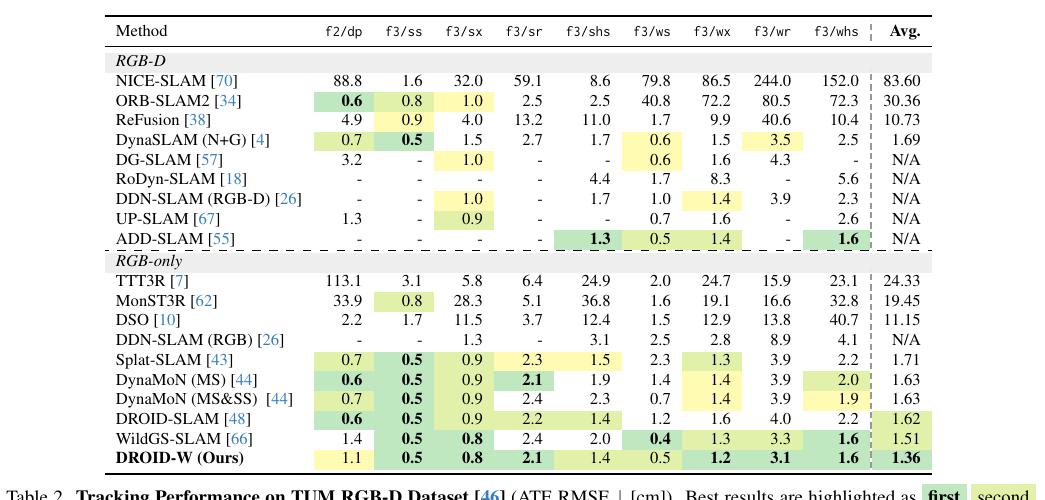
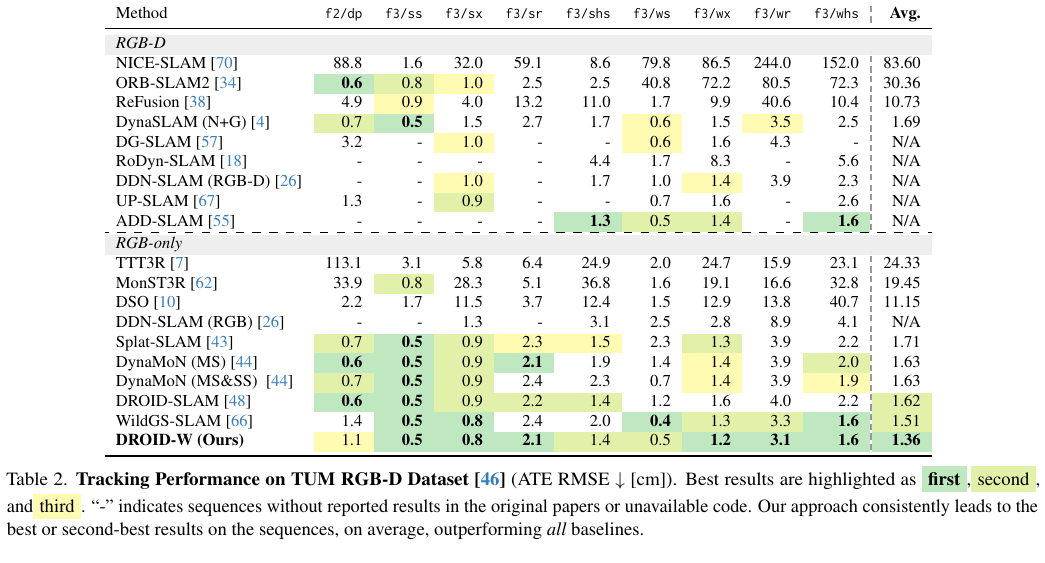
Revise DROID-SLAM in the Wild paper review

diff --git a/blog/articles/droid-slam-in-the-wild/index.md b/blog/articles/droid-slam-in-the-wild/index.md
@@ -59,9 +59,9 @@ DROID-W 建立在 DROID-SLAM 上。系统从 RGB 图像中抽取关键帧对，D
 
 ### 3.1 DROID-SLAM 预备知识
 
-DROID-SLAM 为每帧维护相机位姿 (G_t\in SE(3)) 和低分辨率逆深度图 (d_t\in\mathbb R^{H/8\times W/8})。帧图 ((\mathcal V,\mathcal E)) 记录哪些帧对有重叠；若 ((i,j)\in\mathcal E)，则在两帧间建立稠密对应约束。
+DROID-SLAM 为每帧维护相机位姿 $G_t\in SE(3)$ 和低分辨率视差图 $d_t\in\mathbb R^{H/8\times W/8}$。论文将其称作 disparity；下文在涉及几何含义时按逆深度理解。帧图 $(\mathcal V,\mathcal E)$ 记录哪些帧对有重叠；若 $(i,j)\in\mathcal E$，则在两帧间建立稠密对应约束。
 
-对帧 (i) 中像素网格点 (p_i)，使用逆投影、相对位姿和投影函数得到在帧 (j) 中由刚体运动预测的位置：
+对帧 $i$ 中像素网格点 $p_i$，使用逆投影、相对位姿和投影函数得到在帧 $j$ 中由刚体运动预测的位置：
 \[
 p_{ij}=\Pi_c\!\left(G'_{ij}\circ\Pi_c^{-1}(p_i,d'_i)\right). \tag{1}
 \]
@@ -263,13 +263,13 @@ E_{\mathrm{uncer}}(u')=
 这里 Softplus 使预测不确定性为正。单个帧对损失对参考帧和目标帧不确定性的导数分别为：
 \[
 \frac{\partial e_{ij}}{\partial u'_i}=-\frac{e_{ij}}{u'_i},\qquad
-\frac{\partial e_{ij}}{\partial u'_j}=-\frac{e_{ij}}{u'_j}\alpha_{ij}. \tag{12}
+\frac{\partial e_{ij}}{\partial u'_j}=-\frac{e_{ij}}{u'_j}\,\varepsilon_{ij}. \tag{12}
 \]
-\(\alpha_{ij}\) 是双线性插值权重矩阵，用于把目标帧插值位置的梯度分配给邻近像素。汇总帧 \(l\) 在所有出边与入边上的贡献，并加入对数先验，可以得到对不确定性的梯度；再乘 Softplus 对参数的导数，得到对 \(\theta\) 的梯度：
+\(u'_{ij}\) 是帧 $j$ 在重投影位置双线性插值得到的不确定性；因此 \(\varepsilon_{ij}\) 表示该插值对帧 $j$ 像素网格的权重矩阵，把目标端梯度分配回相邻像素。汇总帧 \(l\) 在所有出边与入边上的贡献，并加入对数先验，可以得到对不确定性的梯度；再乘 Softplus 对参数的导数，得到对 \(\theta\) 的梯度：
 \[
 \frac{\partial E_{\mathrm{uncer}}}{\partial u'_l}=
 -\sum_{(l,m)\in\mathcal E}\frac{e_{lm}}{u'_l}
--\sum_{(k,l)\in\mathcal E}\frac{e_{kl}}{u'_k}\alpha_{kl}
+ -\sum_{(k,l)\in\mathcal E}\frac{e_{kl}}{u'_k}\varepsilon_{kl}
 +\gamma_{\mathrm{prior}}\frac{1}{u'_l+1.0},
 \]
 \[
